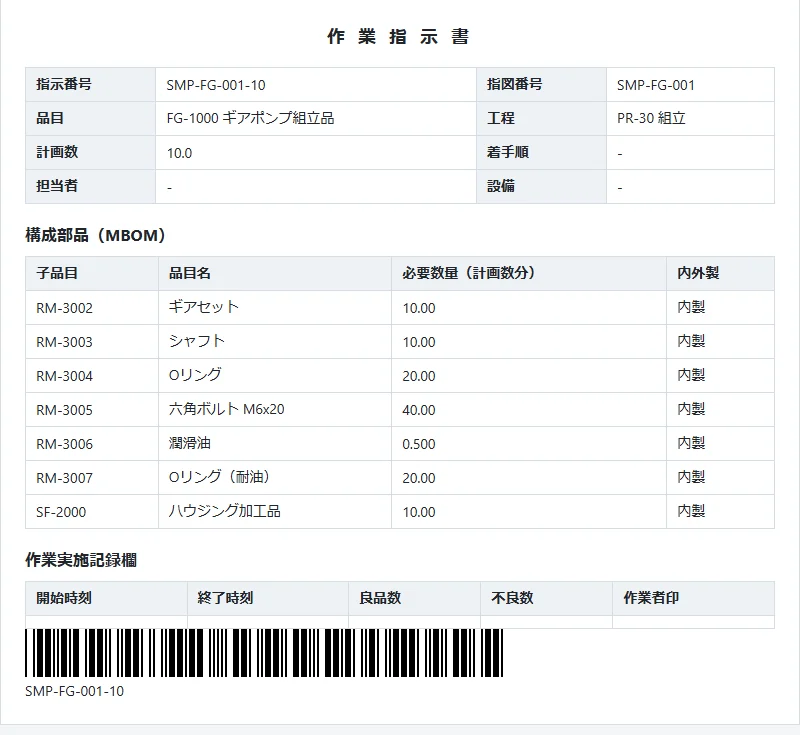
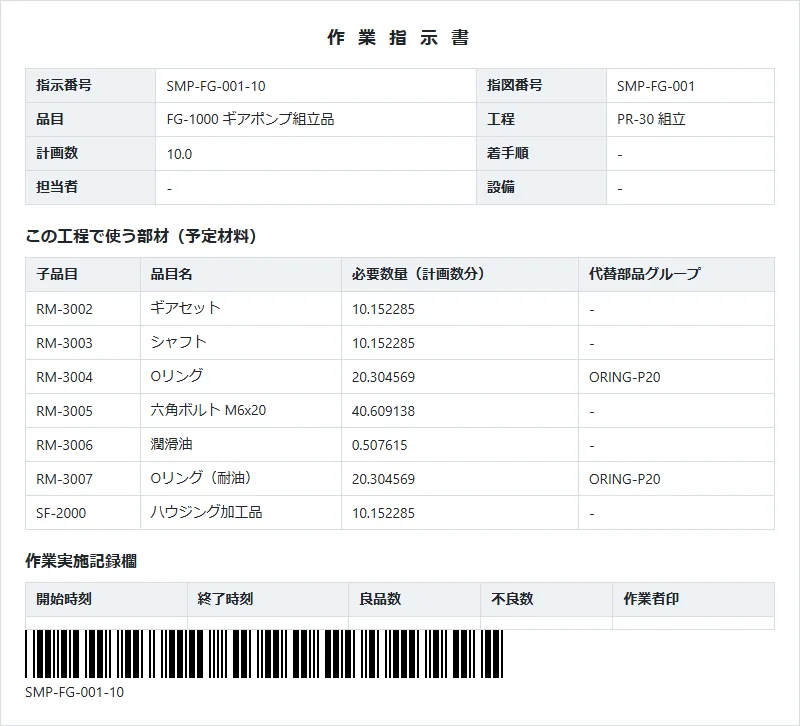
作業指示書の必要数量を予定材料から出し、指図詳細と作業指示書の画面写真を撮り直す
作業指示書の必要数量を 原単位×計画数 で出していたため、標準不良率による割り増し（改訂118）が
抜け、指図の予定材料（例：10.152285）と食い違っていた。予定材料の予定数量を、指図数量に対する
作業指示の計画数の割合で按分して出す。

画面写真は、サンプルを取り込んだ新しいDBで完了承認まで進めて撮り直した。
- docs/assets/walkthrough/order-detail.webp：予定数量の割り増しと消費工程の列が写る
- docs/assets/intro/print-wo.webp：見出しが「この工程で使う部材（予定材料）」、代替部品グループの列
あわせて代替テキストと画像の寸法を直した。

MES.md: B-10-30-04（作業指示書）

diff --git a/docs/intro.html b/docs/intro.html
@@ -321,7 +321,7 @@ footer p{max-width:62em}
     <div class="pair">
       <figure class="screen">
         <figcaption><b>作業指示書</b><span class="mono">印刷 / PDF</span></figcaption>
-        <img src="assets/intro/print-wo.webp" width="800" height="735" loading="lazy" alt="作業指示書の印刷プレビュー。指示番号・品目・工程、構成部品（MBOM）の表、作業実施記録欄、指示番号のバーコード">
+        <img src="assets/intro/print-wo.webp" width="800" height="726" loading="lazy" alt="作業指示書の印刷プレビュー。指示番号・品目・工程、この工程で使う部材（予定材料）の表、作業実施記録欄、指示番号のバーコード">
       </figure>
       <figure class="screen">
         <figcaption><b>現品票</b></figcaption>

diff --git a/docs/walkthrough.md b/docs/walkthrough.md
@@ -270,7 +270,7 @@ MBOMと工順の登録方法は、[マスタ管理の品目・MBOM・工順](mas
 </figure>
 
 <figure class="shot">
-<img src="assets/walkthrough/order-detail.webp" width="1440" height="934" alt="製造指図 SMP-FG-001 の詳細画面。予定材料7品目と、工程展開でできた作業指示3件が表示されている" loading="lazy">
+<img src="assets/walkthrough/order-detail.webp" width="1440" height="947" alt="製造指図 SMP-FG-001 の詳細画面。予定材料7品目（予定数量は標準不良率ぶん割り増し、消費工程はすべて10）と、工程展開でできた作業指示3件が表示されている" loading="lazy">
 <figcaption>製造指図の詳細。予定材料と、工程展開でできた作業指示が並ぶ。予定数量はギアポンプの標準不良率 1.5% ぶん割り増され、部材はどれも組立（工程10）で使う。各行から段取り・実績入力・指示書の印刷へ進める</figcaption>
 </figure>
 
